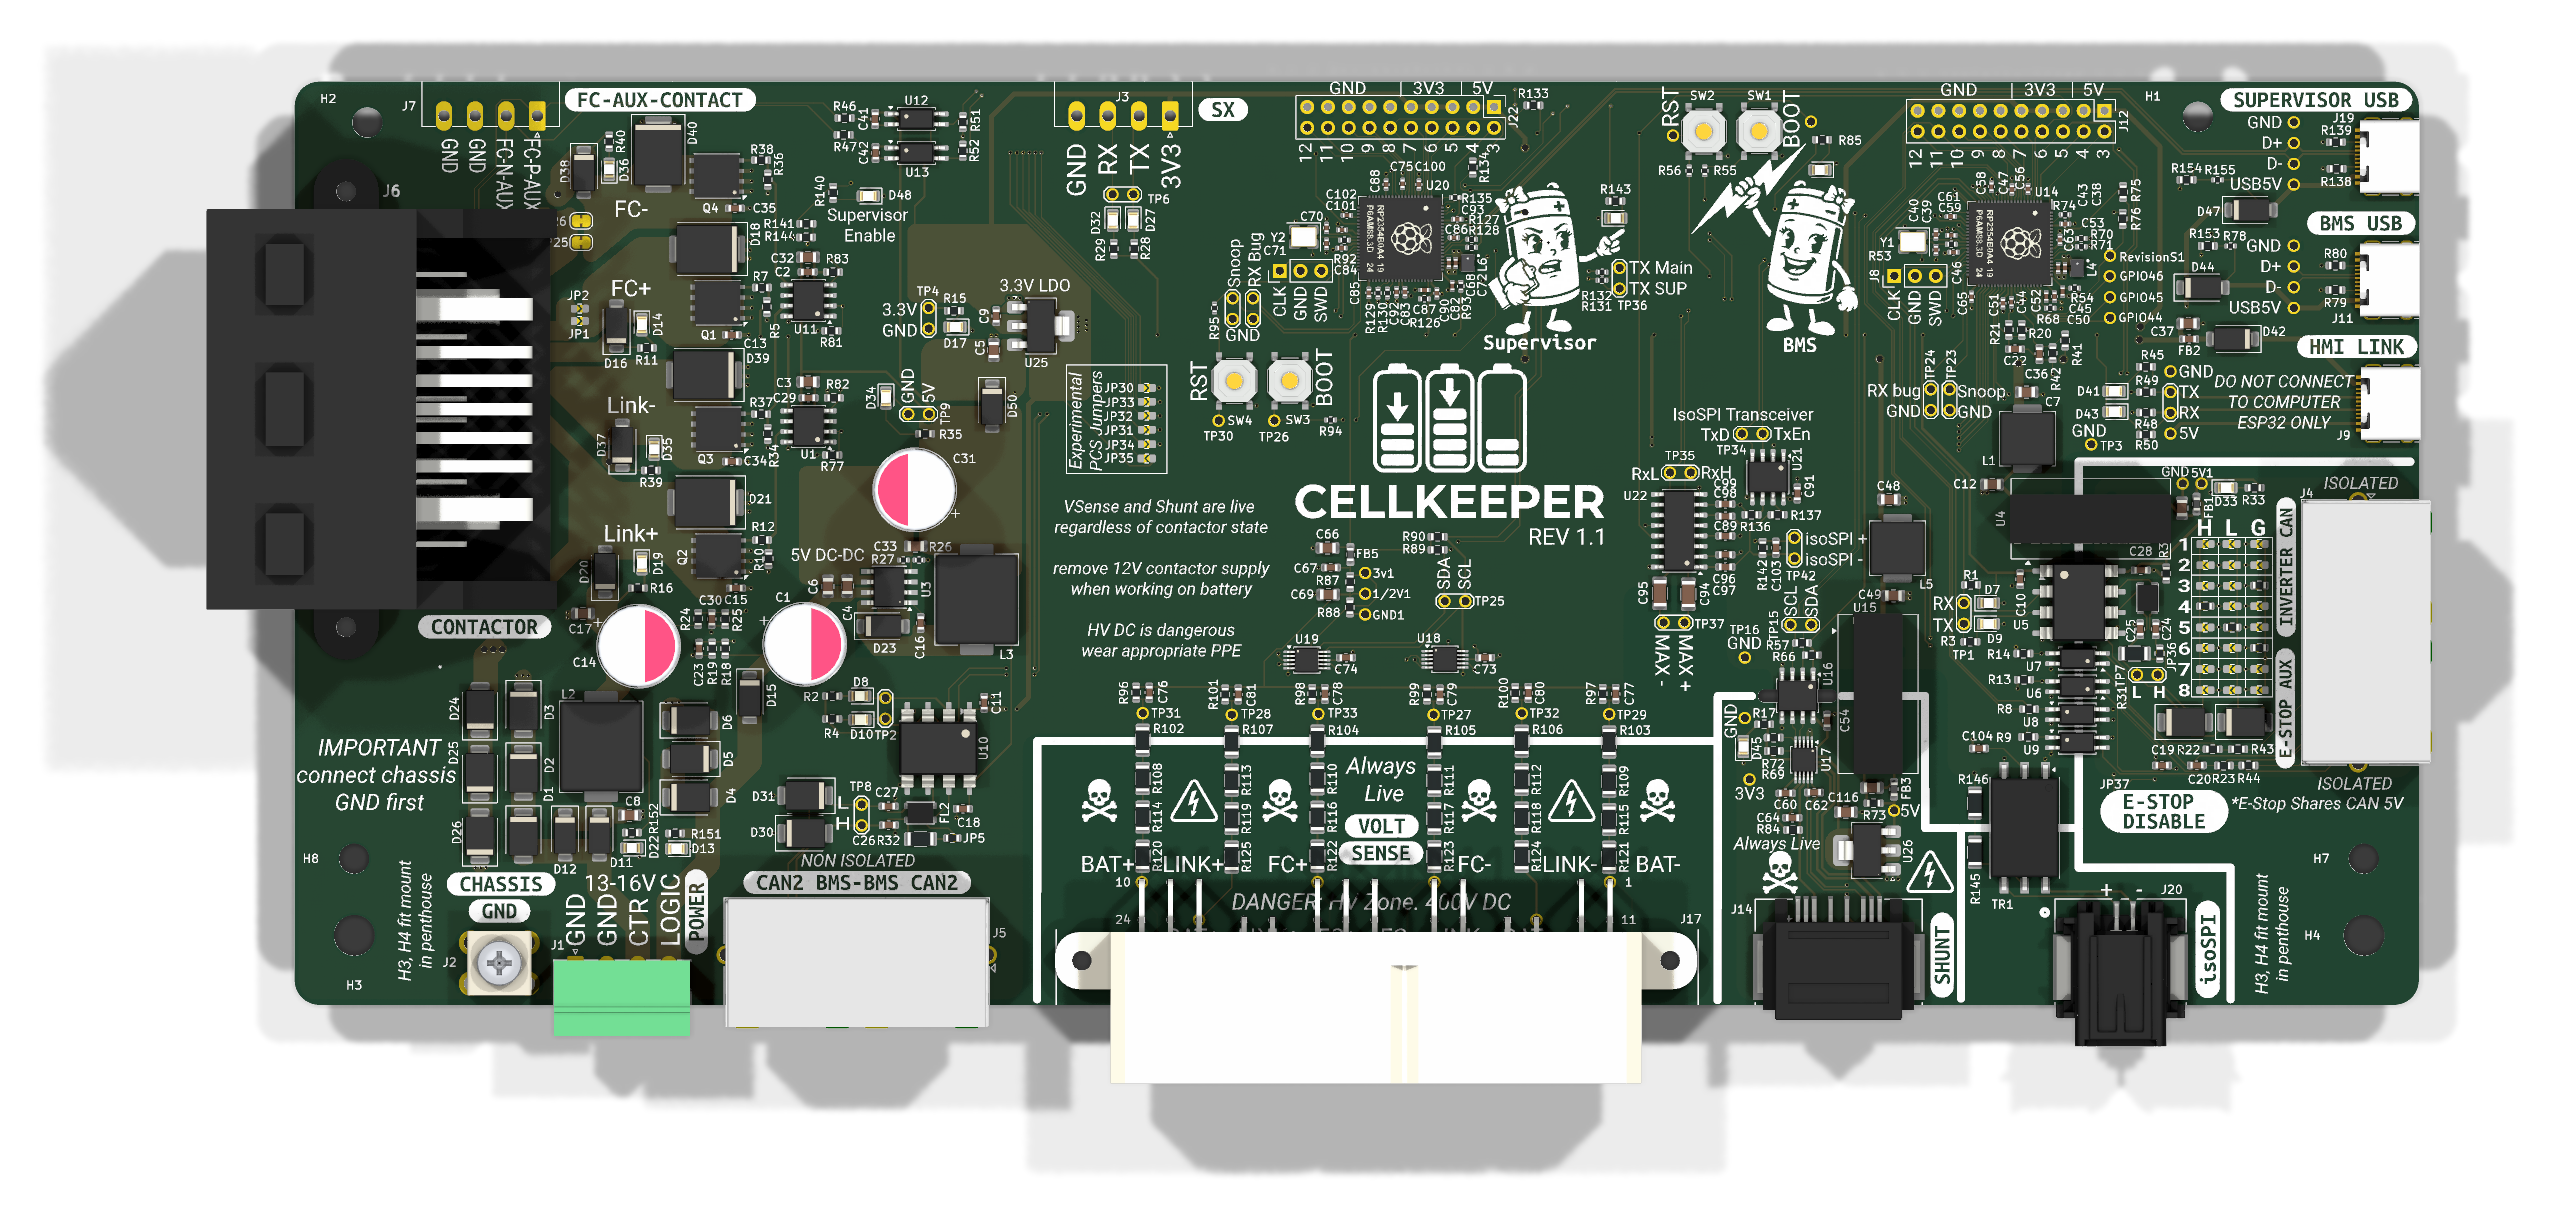
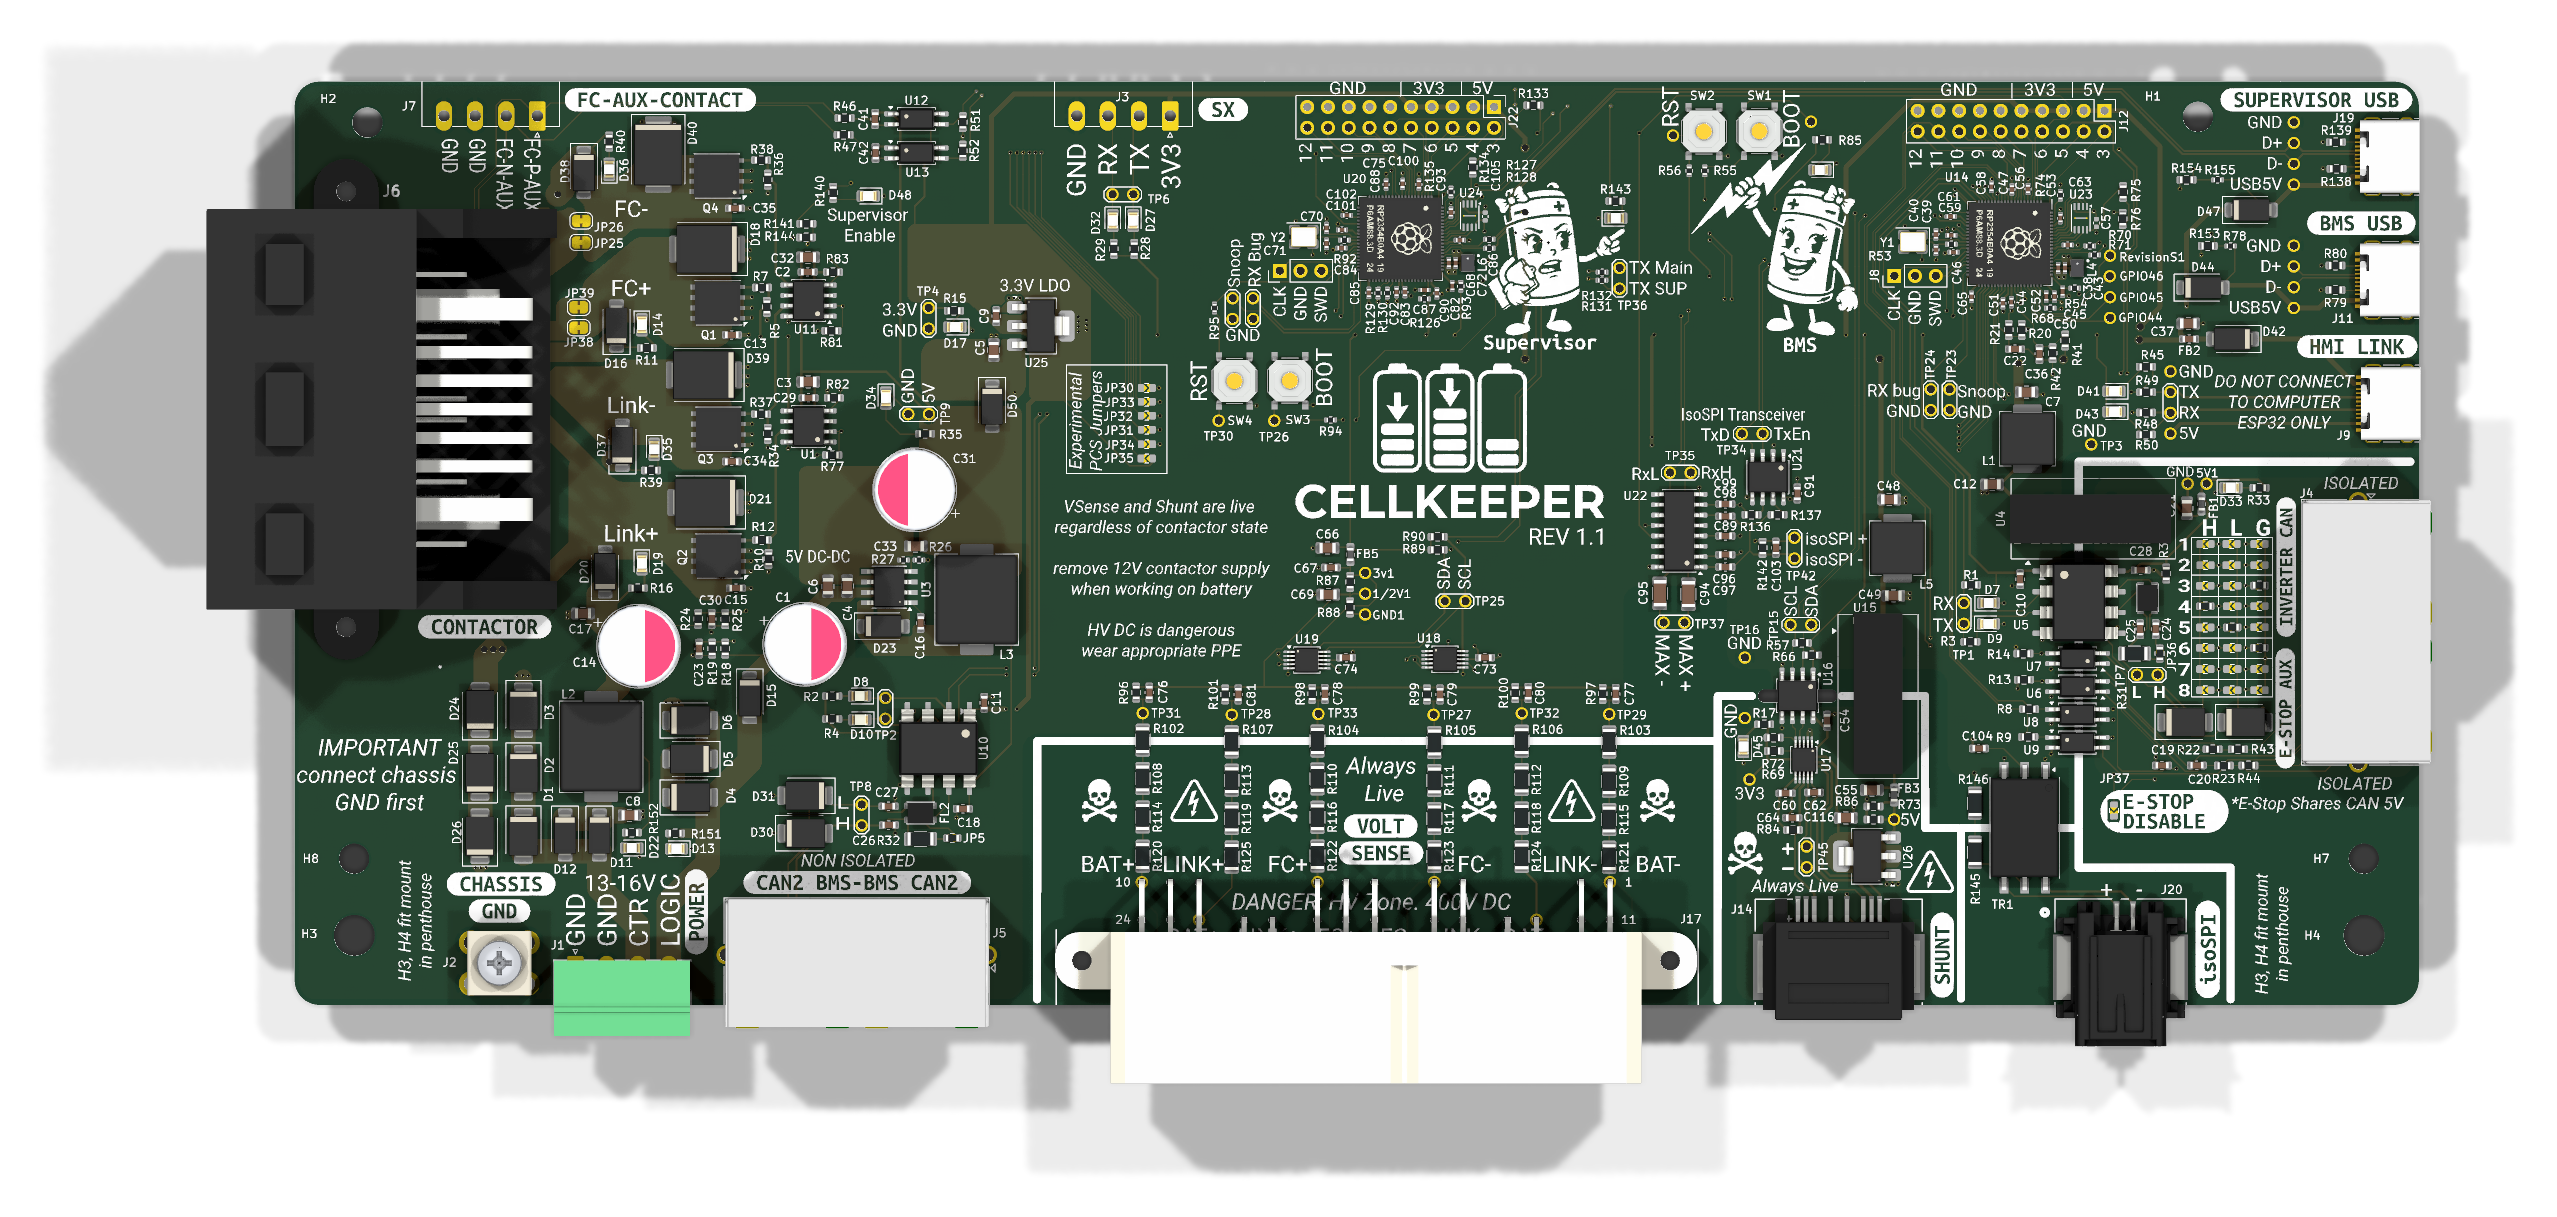
README images from the rev 1.1 board as ordered
The enclosure render now uses a copy with ENC1 not excluded from position files, so KiCad's 3D viewer filter for those footprints no longer hides the case.

diff --git a/python_scripts/render_readme_images.py b/python_scripts/render_readme_images.py
@@ -31,8 +31,8 @@ VIEWS = {
 }
 
 
-def without_enclosure(text: str) -> str:
-    """The board file text with the ENC1 footprint block removed."""
+def enclosure_span(text: str) -> tuple[int, int]:
+    """Start of the ENC1 footprint's line and the index just past its closing parenthesis."""
     i = text.index(ENCLOSURE_FP)
     start = text.rfind("\n", 0, i) + 1
     depth, j = 0, i
@@ -47,7 +47,21 @@ def without_enclosure(text: str) -> str:
         elif c == '"':
             j = text.index('"', j + 1)
         j += 1
-    return text[:start] + text[j + 1:]
+    return start, j + 1
+
+
+def without_enclosure(text: str) -> str:
+    """The board file text with the ENC1 footprint block removed."""
+    start, end = enclosure_span(text)
+    return text[:start] + text[end:]
+
+
+def with_enclosure_shown(text: str) -> str:
+    """The board file text with ENC1 no longer excluded from position files. The 3D viewer's
+    "not in position files" filter (a KiCad user setting) would otherwise hide the case."""
+    start, end = enclosure_span(text)
+    block = text[start:end].replace(" exclude_from_pos_files", "", 1)
+    return text[:start] + block + text[end:]
 
 
 def render(board: Path, args: list[str], out: Path) -> None:
@@ -72,7 +86,9 @@ def main() -> None:
     with tempfile.TemporaryDirectory() as tmp:
         bare = Path(tmp) / "bare.kicad_pcb"
         bare.write_text(without_enclosure(text), encoding="utf-8", newline="")
-        boards = {"bare": bare, "full": BOARD}
+        full = Path(tmp) / "full.kicad_pcb"
+        full.write_text(with_enclosure_shown(text), encoding="utf-8", newline="")
+        boards = {"bare": bare, "full": full}
         for name, (which, args) in VIEWS.items():
             render(boards[which], args, GRAPHICS / name)
 

diff --git a/docs/readme-update.md b/docs/readme-update.md
@@ -25,7 +25,7 @@ python python_scripts/render_readme_images.py
 | Image | View | How |
 |-------|------|-----|
 | `graphics/CellKeeper_top.png` | bare board, top-down | renders a temporary copy of the board with the ENC1 enclosure footprint removed |
-| `graphics/CellKeeper_enclosure.png` | board in its case, right front | renders the real board with `--rotate -52,0,-32` |
+| `graphics/CellKeeper_enclosure.png` | board in its case, right front | renders a temporary copy with `--rotate -52,0,-32`, ENC1 un-excluded from position files so the 3D viewer's "not in position files" filter can't hide the case |
 
 Both are rendered on a transparent background, cropped to the board with a 40 px margin and
 flattened onto white. The board file is only read, so KiCad can stay open (it renders the last
